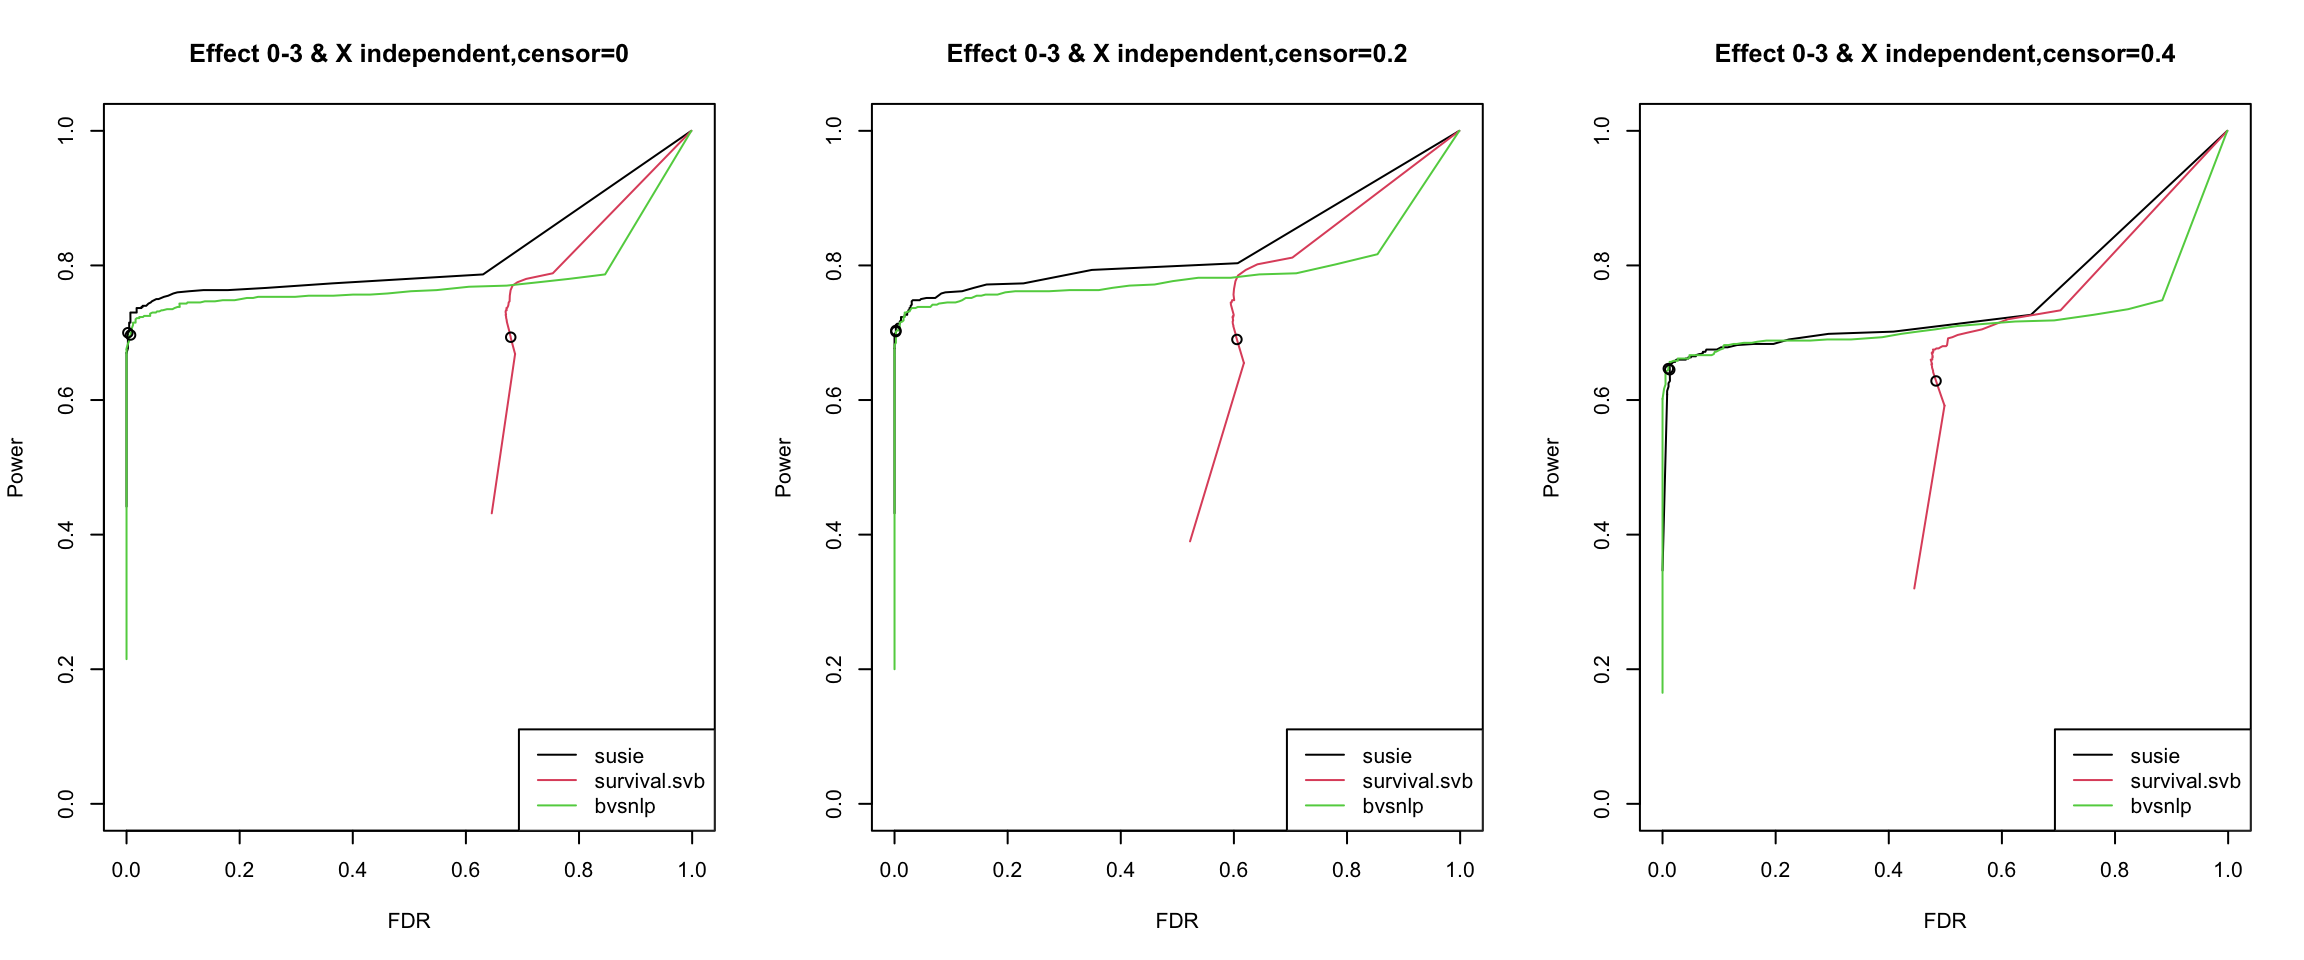
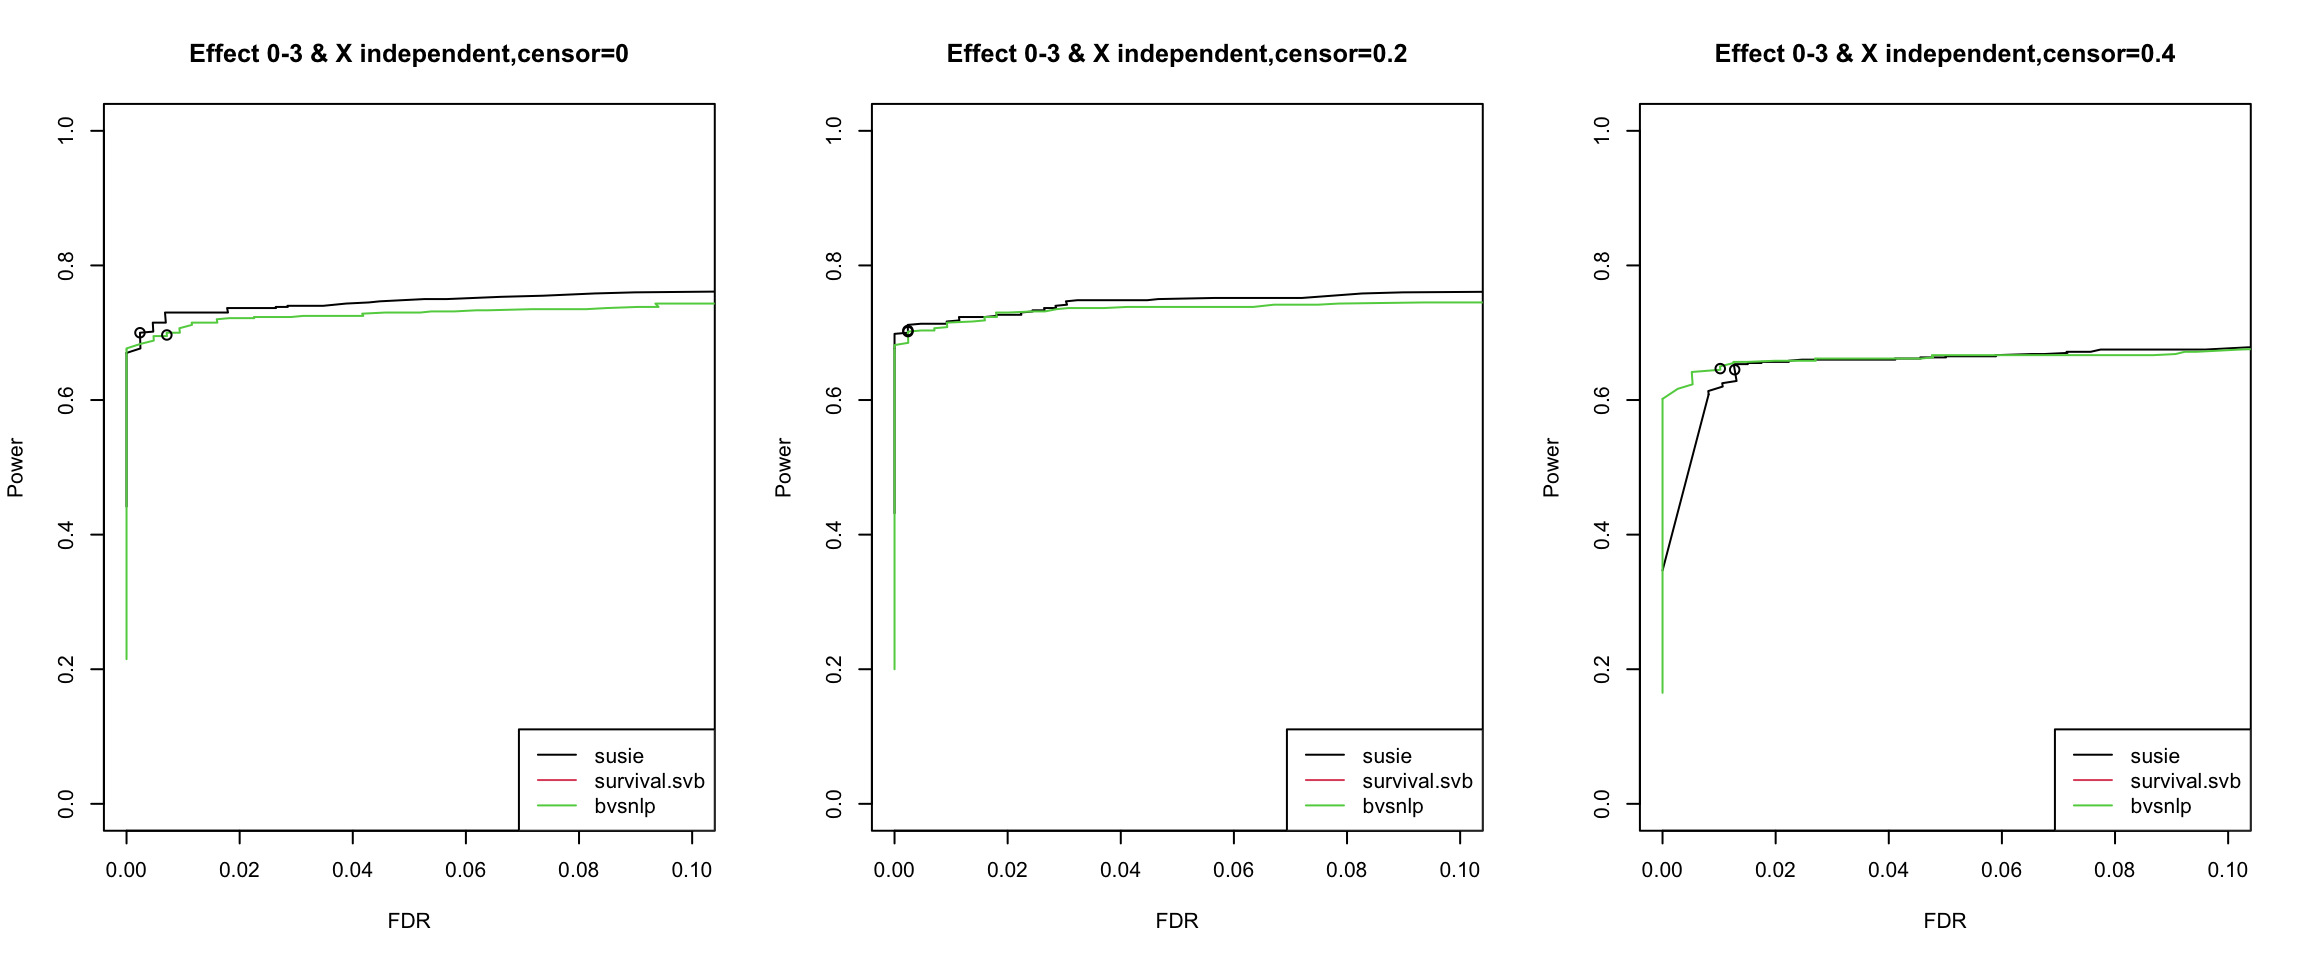
Build site.

diff --git a/docs/power_fdr2.html b/docs/power_fdr2.html
@@ -475,16 +475,16 @@ This reproducible <a href="http://rmarkdown.rstudio.com">R Markdown</a> analysis
 <div class="panel panel-default">
 <div class="panel-heading">
 <p class="panel-title">
-<a data-toggle="collapse" data-parent="#workflowr-checks" href="#strongRepositoryversionstrongahrefhttpsgithubcomyunqiyang0215survivalsusietreef06a97984cc70ca13cdb9e751f9dc41662191f09targetblankf06a979a"> <span class="glyphicon glyphicon-ok text-success" aria-hidden="true"></span> <strong>Repository version:</strong> <a href="https://github.com/yunqiyang0215/survival-susie/tree/f06a97984cc70ca13cdb9e751f9dc41662191f09" target="_blank">f06a979</a> </a>
+<a data-toggle="collapse" data-parent="#workflowr-checks" href="#strongRepositoryversionstrongahrefhttpsgithubcomyunqiyang0215survivalsusietree8c59901251f0de760145f9872f89ae74f5cd4f0etargetblank8c59901a"> <span class="glyphicon glyphicon-ok text-success" aria-hidden="true"></span> <strong>Repository version:</strong> <a href="https://github.com/yunqiyang0215/survival-susie/tree/8c59901251f0de760145f9872f89ae74f5cd4f0e" target="_blank">8c59901</a> </a>
 </p>
 </div>
[2 lines of base64/hex data omitted]
 <div class="panel-body">
 <p>
 Great! You are using Git for version control. Tracking code development and connecting the code version to the results is critical for reproducibility.
 </p>
 <p>
-The results in this page were generated with repository version <a href="https://github.com/yunqiyang0215/survival-susie/tree/f06a97984cc70ca13cdb9e751f9dc41662191f09" target="_blank">f06a979</a>. See the <em>Past versions</em> tab to see a history of the changes made to the R Markdown and HTML files.
+The results in this page were generated with repository version <a href="https://github.com/yunqiyang0215/survival-susie/tree/8c59901251f0de760145f9872f89ae74f5cd4f0e" target="_blank">8c59901</a>. See the <em>Past versions</em> tab to see a history of the changes made to the R Markdown and HTML files.
 </p>
 <p>
 Note that you need to be careful to ensure that all relevant files for the analysis have been committed to Git prior to generating the results (you can use <code>wflow_publish</code> or <code>wflow_git_commit</code>). workflowr only checks the R Markdown file, but you know if there are other scripts or data files that it depends on. Below is the status of the Git repository when the results were generated:
@@ -556,6 +556,40 @@ Message
 Rmd
 </td>
 <td>
+<a href="https://github.com/yunqiyang0215/survival-susie/blob/8c59901251f0de760145f9872f89ae74f5cd4f0e/analysis/power_fdr2.Rmd" target="_blank">8c59901</a>
+</td>
+<td>
+yunqiyang0215
+</td>
+<td>
+2023-04-17
+</td>
+<td>
+wflow_publish("analysis/power_fdr2.Rmd")
+</td>
+</tr>
+<tr>
+<td>
+html
+</td>
+<td>
+<a href="https://rawcdn.githack.com/yunqiyang0215/survival-susie/ba4a07c2a8d25b3d0099f834739c2dfb10f18c40/docs/power_fdr2.html" target="_blank">ba4a07c</a>
+</td>
+<td>
+yunqiyang0215
+</td>
+<td>
+2023-04-17
+</td>
+<td>
+Build site.
+</td>
+</tr>
+<tr>
+<td>
+Rmd
+</td>
+<td>
 <a href="https://github.com/yunqiyang0215/survival-susie/blob/f06a97984cc70ca13cdb9e751f9dc41662191f09/analysis/power_fdr2.Rmd" target="_blank">f06a979</a>
 </td>
 <td>
@@ -587,10 +621,12 @@ wflow_publish("analysis/power_fdr2.Rmd")
 <li><p>Added the procedure for estimating prior variance.</p></li>
 </ol>
 <p>Other simulation settings, see here: <a href="https://yunqiyang0215.github.io/survival-susie/compare_pip.html" class="uri">https://yunqiyang0215.github.io/survival-susie/compare_pip.html</a></p>
-<p><strong>Conclustion</strong>:</p>
+<p><strong>Conclusion</strong>:</p>
 <ol style="list-style-type: decimal">
-<li><p>When X are highly correlated, susie performs best. And survival svb has very high FDR.</p></li>
-<li><p>When X are close to independent, susie is slightly worse than the other two methods.</p></li>
+<li><p>When X are highly correlated, susie performs best.</p></li>
+<li><p>When X are independent, and without null model data, all methods are similar.</p></li>
+<li><p>survival.svb and bvsnlp doesn’t perform well after adding data from null model.</p></li>
+<li><p>When censoring level = 0.4, susie performance starts to get worse.</p></li>
 </ol>
 <pre class="r"><code>calculate_tpr_vs_fdr &lt;- function(pip, is_effect, ts){
   res &lt;- matrix(NA, nrow = length(ts), ncol = 2)
@@ -640,7 +676,45 @@ for (i in 1:3){
   
   legend(&quot;topleft&quot;, legend = c(&quot;susie&quot;, &quot;survival.svb&quot;, &quot;bvsnlp&quot;), col = c(1,2,3), lty = 1)
 }</code></pre>
-<p><img src="figure/power_fdr2.Rmd/unnamed-chunk-4-1.png" width="1152" style="display: block; margin: auto;" /> The dots indicate PIP threshold = 0.9</p>
+<p><img src="figure/power_fdr2.Rmd/unnamed-chunk-4-1.png" width="1152" style="display: block; margin: auto;" /></p>
+<p>
+<button type="button" class="btn btn-default btn-xs btn-workflowr btn-workflowr-fig" data-toggle="collapse" data-target="#fig-unnamed-chunk-4-1">
+Past versions of unnamed-chunk-4-1.png
+</button>
+</p>
+<div id="fig-unnamed-chunk-4-1" class="collapse">
+<div class="table-responsive">
+<table class="table table-condensed table-hover">
+<thead>
+<tr>
+<th>
+Version
+</th>
+<th>
+Author
+</th>
+<th>
+Date
+</th>
+</tr>
+</thead>
+<tbody>
+<tr>
+<td>
+<a href="https://github.com/yunqiyang0215/survival-susie/blob/ba4a07c2a8d25b3d0099f834739c2dfb10f18c40/docs/figure/power_fdr2.Rmd/unnamed-chunk-4-1.png" target="_blank">ba4a07c</a>
+</td>
+<td>
+yunqiyang0215
+</td>
+<td>
+2023-04-17
+</td>
+</tr>
+</tbody>
+</table>
+</div>
+</div>
+<p>The dots indicate PIP threshold = 0.9</p>
 </div>
 <div id="results-using-independent-x-without-data-from-null-model." class="section level3">
 <h3>2. Results using independent X, without data from null model.</h3>
@@ -671,18 +745,44 @@ for (i in 1:3){
   legend(&quot;bottomright&quot;, legend = c(&quot;susie&quot;, &quot;survival.svb&quot;, &quot;bvsnlp&quot;), col = c(1,2,3), lty = 1)
 }</code></pre>
 <p><img src="figure/power_fdr2.Rmd/unnamed-chunk-5-1.png" width="1152" style="display: block; margin: auto;" /></p>
+<p>
+<button type="button" class="btn btn-default btn-xs btn-workflowr btn-workflowr-fig" data-toggle="collapse" data-target="#fig-unnamed-chunk-5-1">
+Past versions of unnamed-chunk-5-1.png
+</button>
+</p>
+<div id="fig-unnamed-chunk-5-1" class="collapse">
+<div class="table-responsive">
+<table class="table table-condensed table-hover">
+<thead>
+<tr>
+<th>
+Version
+</th>
+<th>
+Author
+</th>
+<th>
+Date
+</th>
+</tr>
+</thead>
+<tbody>
+<tr>
+<td>
+<a href="https://github.com/yunqiyang0215/survival-susie/blob/ba4a07c2a8d25b3d0099f834739c2dfb10f18c40/docs/figure/power_fdr2.Rmd/unnamed-chunk-5-1.png" target="_blank">ba4a07c</a>
+</td>
+<td>
+yunqiyang0215
+</td>
+<td>
+2023-04-17
+</td>
+</tr>
+</tbody>
+</table>
+</div>
+</div>
 <p>The dots indicate PIP threshold = 0.9.</p>
-<pre class="r"><code>plot(res.susie[,2], res.susie[,1], type = &quot;l&quot;, xlim = c(0, 0.1), ylim = c(0, 1), xlab = &quot;FDR&quot;, ylab = &quot;Power&quot;,
-     main = &quot;Effect number 0-3 &amp; X independent&quot;)
-lines(res.svb[,2], res.svb[,1], type = &quot;l&quot;, col = 2)
-lines(res.bvsnlp[,2], res.bvsnlp[,1], type = &quot;l&quot;, col = 3)
-
-points(res.susie[which(ts == 0.9),2], res.susie[which(ts == 0.9), 1])
-points(res.svb[which(ts == 0.9),2], res.svb[which(ts == 0.9), 1])
-points(res.bvsnlp[which(ts == 0.9),2], res.bvsnlp[which(ts == 0.9), 1])
-
-legend(&quot;bottomright&quot;, legend = c(&quot;susie&quot;, &quot;survival.svb&quot;, &quot;bvsnlp&quot;), col = c(1,2,3), lty = 1)</code></pre>
-<p><img src="figure/power_fdr2.Rmd/unnamed-chunk-6-1.png" width="672" style="display: block; margin: auto;" /></p>
 </div>
 <div id="results-using-independent-x-with-data-from-null-model." class="section level3">
 <h3>3. Results using independent X, with data from null model.</h3>
@@ -712,7 +812,44 @@ for (i in 1:3){
   points(res.bvsnlp[which(ts == 0.9),2], res.bvsnlp[which(ts == 0.9), 1])
   legend(&quot;bottomright&quot;, legend = c(&quot;susie&quot;, &quot;survival.svb&quot;, &quot;bvsnlp&quot;), col = c(1,2,3), lty = 1)
 }</code></pre>
-<p><img src="figure/power_fdr2.Rmd/unnamed-chunk-7-1.png" width="1152" style="display: block; margin: auto;" /></p>
+<p><img src="figure/power_fdr2.Rmd/unnamed-chunk-6-1.png" width="1152" style="display: block; margin: auto;" /></p>
+<p>
+<button type="button" class="btn btn-default btn-xs btn-workflowr btn-workflowr-fig" data-toggle="collapse" data-target="#fig-unnamed-chunk-6-1">
+Past versions of unnamed-chunk-6-1.png
+</button>
+</p>
+<div id="fig-unnamed-chunk-6-1" class="collapse">
+<div class="table-responsive">
+<table class="table table-condensed table-hover">
+<thead>
+<tr>
+<th>
+Version
+</th>
+<th>
+Author
+</th>
+<th>
+Date
+</th>
+</tr>
+</thead>
+<tbody>
+<tr>
+<td>
+<a href="https://github.com/yunqiyang0215/survival-susie/blob/ba4a07c2a8d25b3d0099f834739c2dfb10f18c40/docs/figure/power_fdr2.Rmd/unnamed-chunk-6-1.png" target="_blank">ba4a07c</a>
+</td>
+<td>
+yunqiyang0215
+</td>
+<td>
+2023-04-17
+</td>
+</tr>
+</tbody>
+</table>
+</div>
+</div>
 <p>The dots indicate PIP threshold = 0.9.</p>
 <pre class="r"><code>par(mfrow = c(1,3))
 censor_lvl = c(0, 0.2, 0.4)
@@ -740,7 +877,44 @@ for (i in 1:3){
   points(res.bvsnlp[which(ts == 0.9),2], res.bvsnlp[which(ts == 0.9), 1])
   legend(&quot;bottomright&quot;, legend = c(&quot;susie&quot;, &quot;survival.svb&quot;, &quot;bvsnlp&quot;), col = c(1,2,3), lty = 1)
 }</code></pre>
-<p><img src="figure/power_fdr2.Rmd/unnamed-chunk-8-1.png" width="1152" style="display: block; margin: auto;" /></p>
+<p><img src="figure/power_fdr2.Rmd/unnamed-chunk-7-1.png" width="1152" style="display: block; margin: auto;" /></p>
+<p>
+<button type="button" class="btn btn-default btn-xs btn-workflowr btn-workflowr-fig" data-toggle="collapse" data-target="#fig-unnamed-chunk-7-1">
+Past versions of unnamed-chunk-7-1.png
+</button>
+</p>
+<div id="fig-unnamed-chunk-7-1" class="collapse">
+<div class="table-responsive">
+<table class="table table-condensed table-hover">
+<thead>
+<tr>
+<th>
+Version
+</th>
+<th>
+Author
+</th>
+<th>
+Date
+</th>
+</tr>
+</thead>
+<tbody>
+<tr>
+<td>
+<a href="https://github.com/yunqiyang0215/survival-susie/blob/ba4a07c2a8d25b3d0099f834739c2dfb10f18c40/docs/figure/power_fdr2.Rmd/unnamed-chunk-7-1.png" target="_blank">ba4a07c</a>
+</td>
+<td>
+yunqiyang0215
+</td>
+<td>
+2023-04-17
+</td>
+</tr>
+</tbody>
+</table>
+</div>
+</div>
 <br>
 <p>
 <button type="button" class="btn btn-default btn-workflowr btn-workflowr-sessioninfo" data-toggle="collapse" data-target="#workflowr-sessioninfo" style="display: block;">
